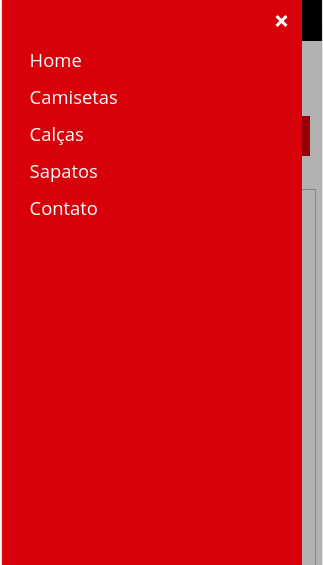
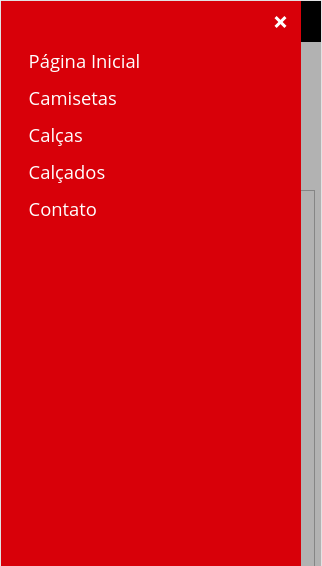
rename link and new print

diff --git a/frontend/src/components/Mobile/index.js b/frontend/src/components/Mobile/index.js
@@ -33,7 +33,7 @@ function Hamburger () {
     <Responsive displayIn = {['mobile']}>
       <Menu>
         <a className="menu-item" href="/">
-          Home
+          Página Inicial
         </a>
 
         {data.map((item, index) =>
